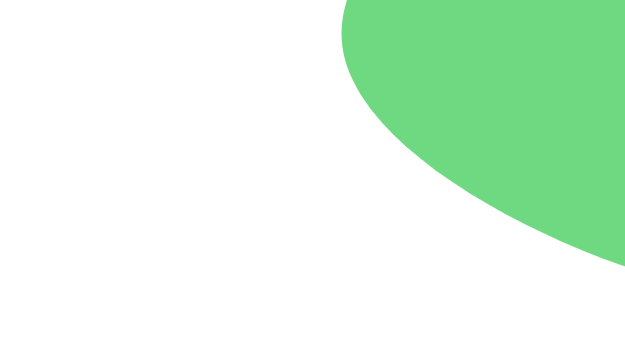
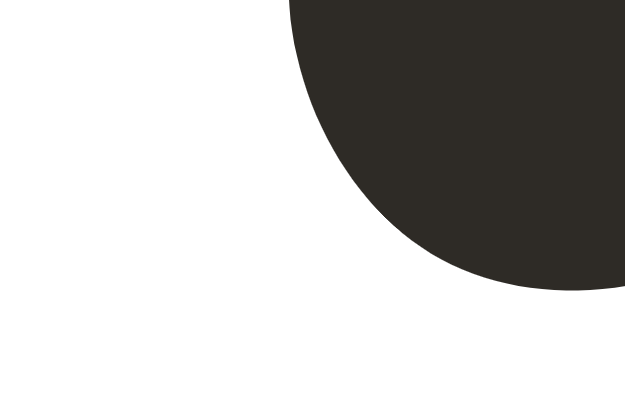
Add files via upload

diff --git a/index.html b/index.html
@@ -37,14 +37,14 @@
 <!--        <img class="football_player" src="./images/500x800.png" alt="Football Player">-->
 
         <div class="data-content">
-            <p class="p-data-content"><span style="font-weight: bold; font-size: 70px; color: #30b747" class="big-text">Managersim</span> - best football manager game on the planet</p>
+            <p class="p-data-content"><span style="font-weight: bold; font-size: 70px;" class="big-text">Managersim</span> - best football manager game on the planet</p>
             <p>ManagerSim is a football (soccer in some parts of the world) management simulation game. As a football club manager, you buy and sell players, set up tactics, handle the economy and a whole lot more. The truly novel piece of ManagerSim is that you play against hundreds of other human managers in the same Game World.</p>
         </div>
     </div>
 
 <!--    Partnership-->
     <div class="partnership_categ">
-        <img class="partner_main_image" src="https://wallpaperaccess.com/full/563319.jpg" alt="">
+        <img class="partner_main_image" src="https://wallpapers.com/images/hd/4k-football-goal-close-up-lilha86ujobh40vr.jpg" alt="">
 
 <!--        Backgorund-->
 <!--        <div style="position: absolute; width: 100%; height: 100%; opacity: 0.2; background-color: #001433; top: 0; left: 0; z-index:0"></div>-->
@@ -77,7 +77,7 @@
             <div style="padding: 25px">
                 <div style="display: flex; justify-content: space-between; align-items: center">
                     <p style="font-weight: 500; font-size: 25px; margin: 0">More Informations About ManagerSim</p>
-                    <i id="more_information_close" style="cursor: pointer" class="fa-solid fa-x"></i>
+                    <i id="more_information_close" style="cursor: pointer; color: white" class="fa-solid fa-x"></i>
                 </div>
                 <div style="overflow: auto !important; height: 420px">
                     <p>During your online session, you can make alterations to your team, send messages to other managers, apply for jobs etc. You then wait for the game tick, after which you can see the effect of your decisions. Some actions will happen between game tick, such as incoming messages from other managers and occasionally from your own players or staff at the club where you manage.

diff --git a/style/assests.css b/style/assests.css
@@ -5,6 +5,7 @@
     border: none;
     background-color: transparent;
     transition: 0.2s all ease;
+    color: white;
 }
 button{
     font-family: 'Ubuntu', sans-serif;
@@ -21,7 +22,7 @@ p {
 .colored_button{
     font-size: 18px;
     color: white;
-    background-color: #72C580;
+    background-color: #2E2B26;
     border: none;
     font-weight: bold;
     padding: 17px 50px;
@@ -40,7 +41,7 @@ p {
 .default_hr{
     border: 0;
     height: 1px;
-    background-image: linear-gradient(to right, rgba(0, 0, 0, 0), rgba(0, 0, 0, 0.15), rgba(0, 0, 0, 0));
+    background-image: linear-gradient(to right, rgba(0, 0, 0, 0), rgba(255, 255, 255, 0.15), rgba(0, 0, 0, 0));
 }
 
 
@@ -50,7 +51,7 @@ p {
     height: 100%;
     position: fixed;
     top: 0;
-    background-color: rgba(0, 0, 0, 0.4);
+    background-color: rgba(256, 256, 256, 0.4);
     display: none ;
     justify-content: center;
     align-items: center;
@@ -59,7 +60,7 @@ p {
 .content_div_fixed_panel{
     width: 30%;
     height: 75%;
-    background-color: white;
+    background-color: #2E2B26;
     border-radius: 15px;
     box-shadow: rgba(149, 157, 165, 0.2) 0px 8px 24px;
 }
@@ -71,4 +72,8 @@ body{
 a{
     color: inherit;
     text-decoration: inherit;
+}
+
+p{
+    color: white;
 }

diff --git a/signup.html b/signup.html
@@ -14,7 +14,7 @@
 <body>
 <div class="container">
     <form method="post" class="content">
-        <p>Sign-up</p>
+        <p style="color: black">Sign-up</p>
         <input type="text" placeholder="Username" name="username" class="default_input">
         <input style="margin-top: 3px" type="email" name="email" placeholder="Email" class="default_input">
         <input style="margin-top: 3px" type="password" name="password" placeholder="Password" class="default_input">

diff --git a/style/games.css b/style/games.css
@@ -8,7 +8,7 @@
 }
 .games_parent{
     width: 95%;
-    background-color: white;
+    background-color: #2E2B26;
     margin: 0 auto;
     box-sizing: border-box;
     margin-top: -100px;
@@ -34,6 +34,8 @@
 
 .games_parent table {
     width: 100%;
+    color: white;
+
 }
 .games_parent table td{
     text-align: center;
@@ -48,4 +50,7 @@
 }
 .game_name_title:hover{
     opacity: 0.7;
+}
+body{
+    background-color: #1D1E23;
 }

diff --git a/login.html b/login.html
@@ -14,7 +14,7 @@
 <body>
     <div class="container">
         <form method="post" class="content">
-            <p>Login</p>
+            <p style="color: black">Login</p>
             <input type="text" placeholder="Username" class="default_input">
             <input style="margin-top: 3px" type="text" placeholder="Password" class="default_input">
 

diff --git a/style/components/footer.css b/style/components/footer.css
@@ -1,7 +1,6 @@
 .footer{
     width: 100%;
     padding: 15px 0;
-    background-color: white;
     box-shadow: rgba(149, 157, 165, 0.2) 0px 8px 24px;
 }
 .footer p {

diff --git a/style/index.css b/style/index.css
@@ -216,3 +216,7 @@
         width: 85% !important;
     }
 }
+
+body{
+    background-color: #1D1E23;
+}

diff --git a/style/login.css b/style/login.css
@@ -7,6 +7,7 @@
 }
 body {
     margin: 0;
+    background-color: #1D1E23;
 }
 .content{
     width: 30%;
